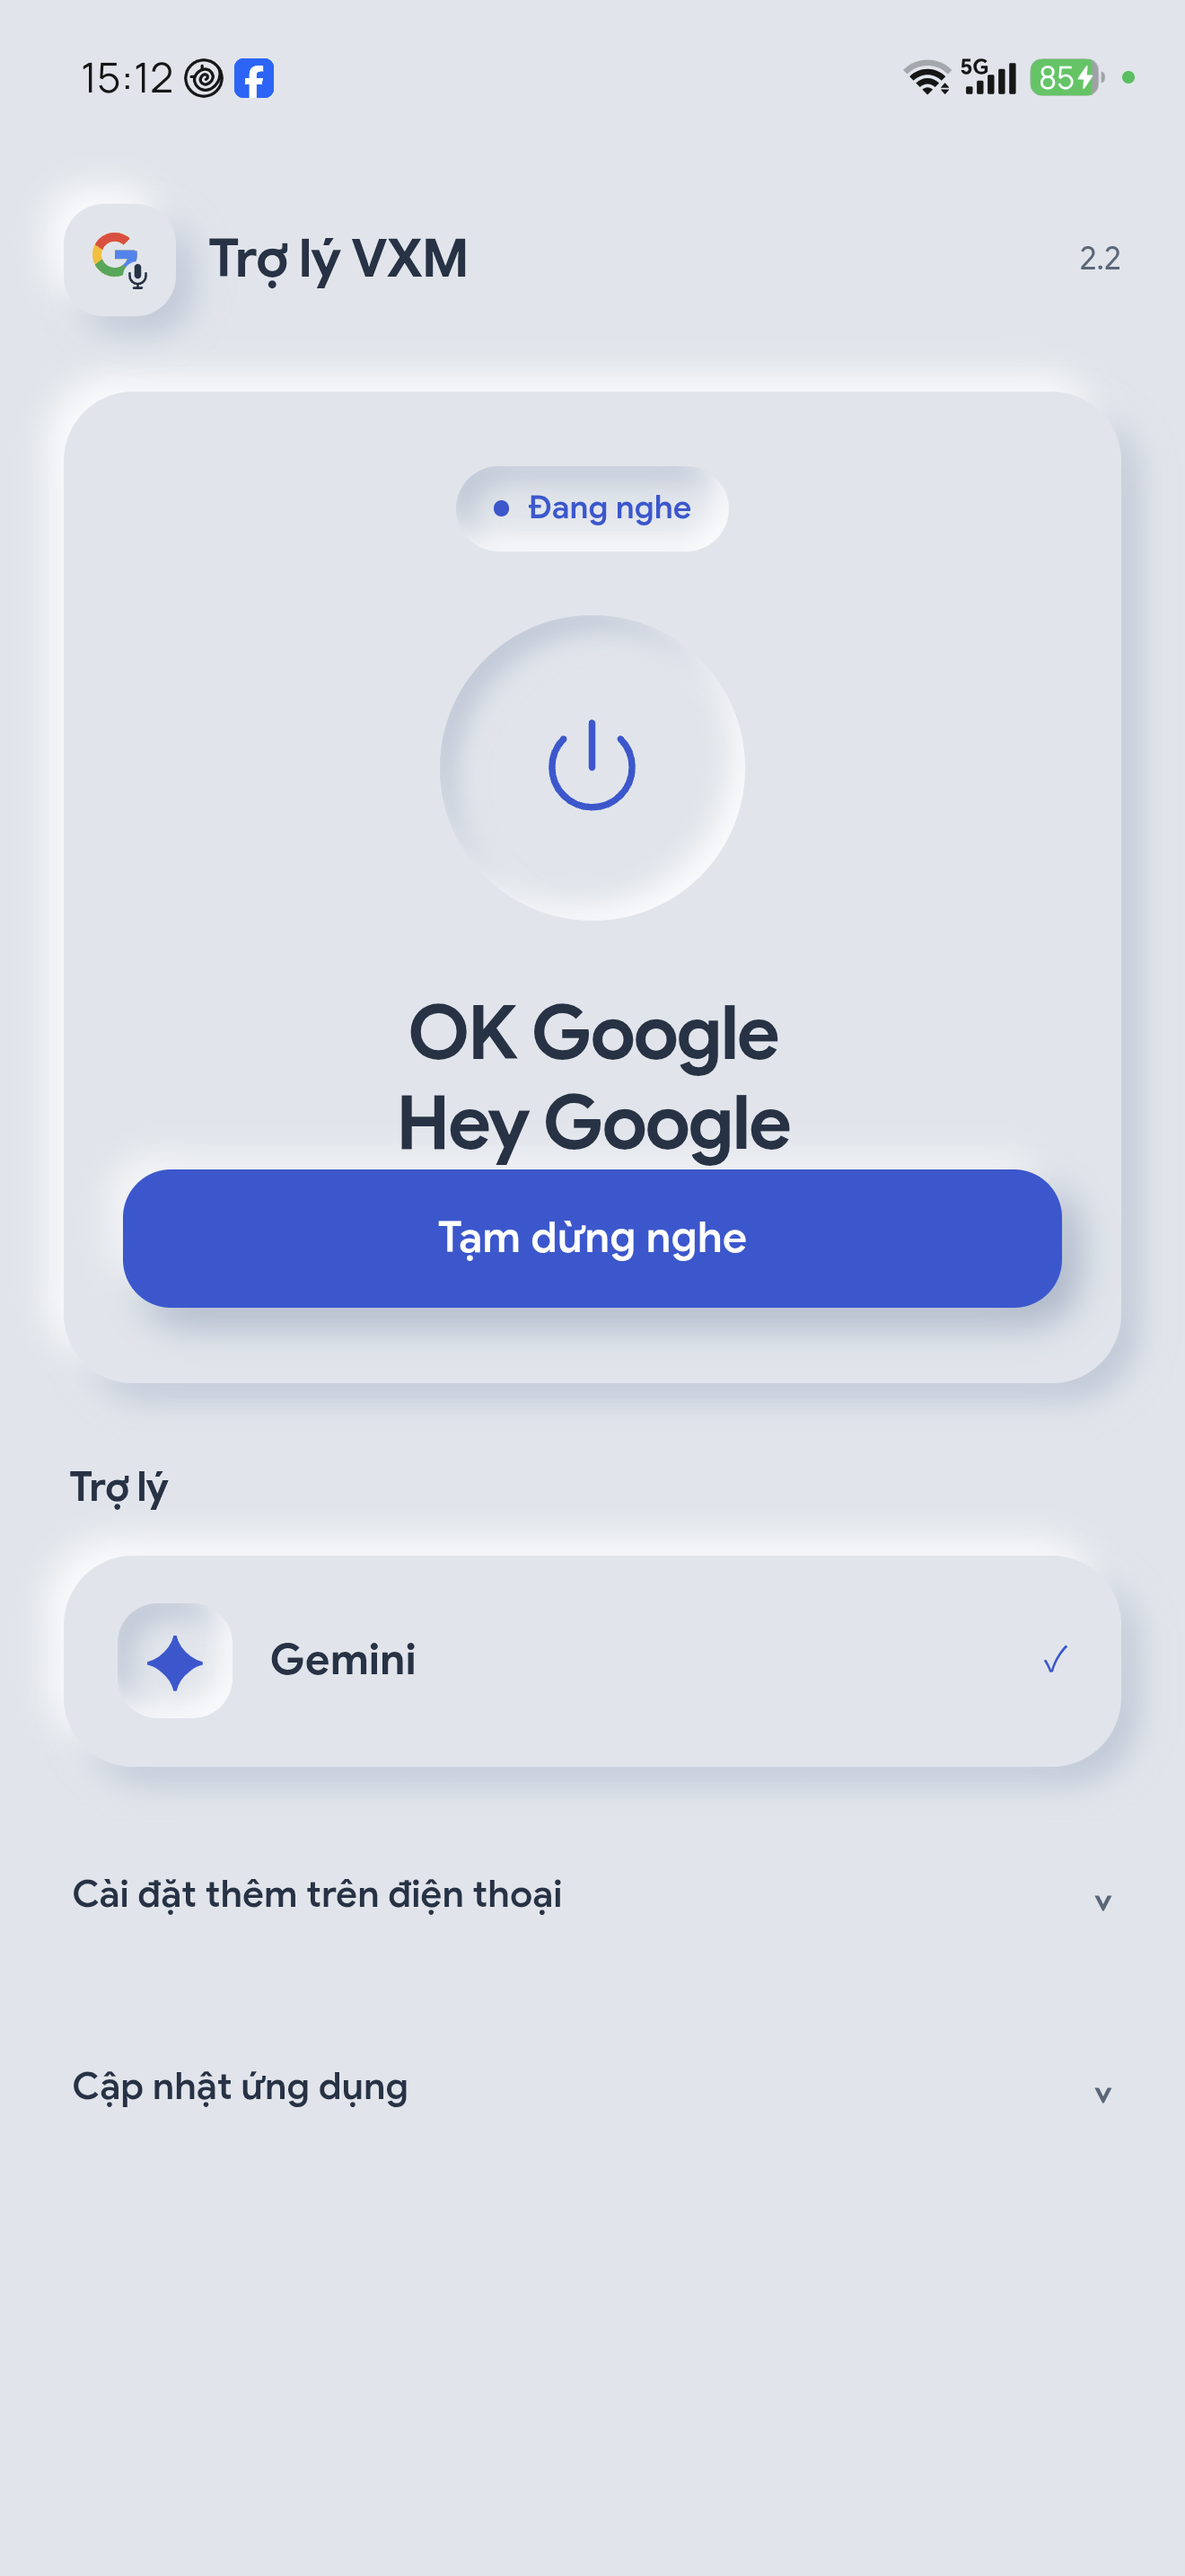
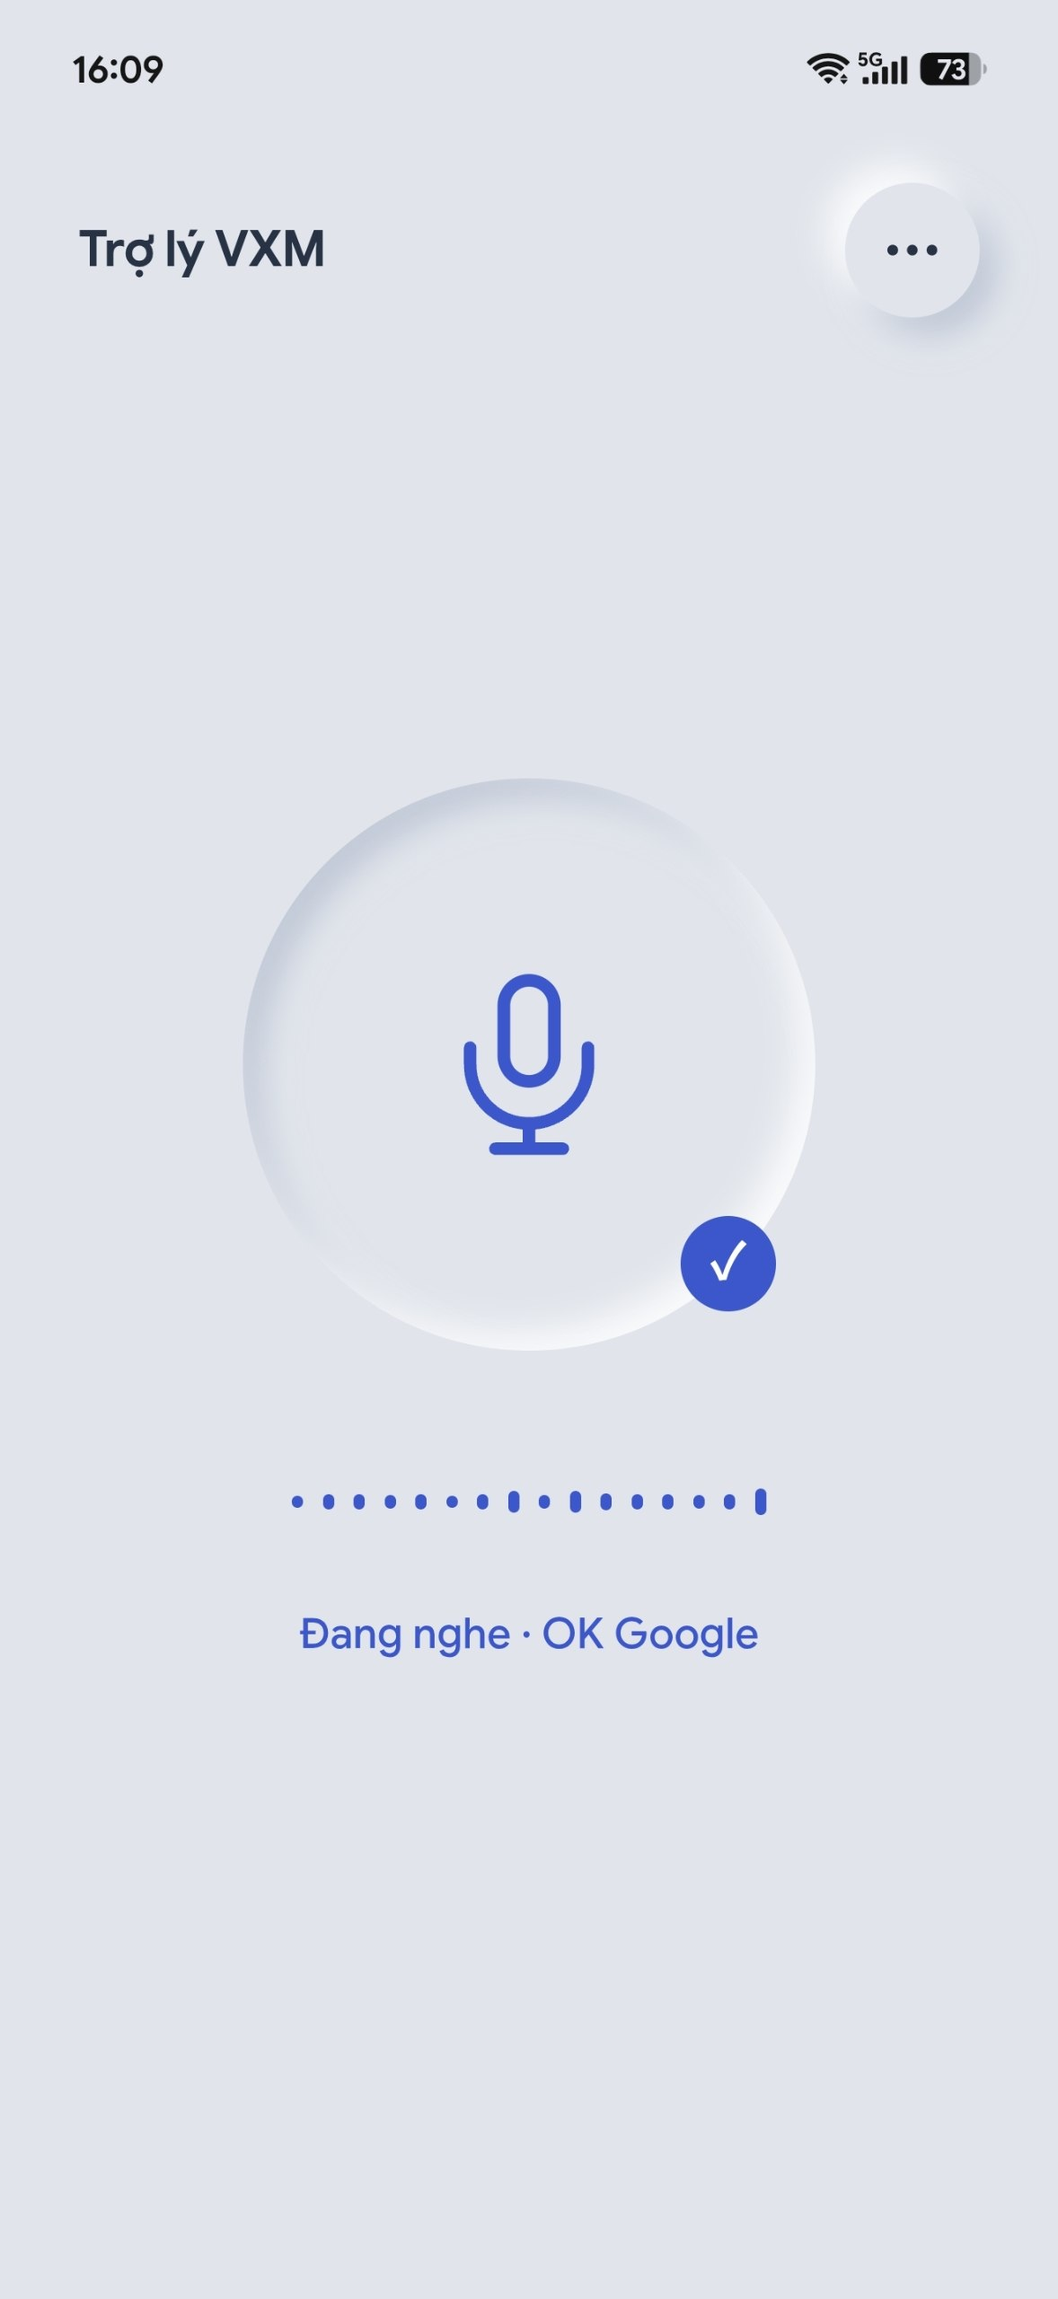
Prepare Trợ lý VXM 2.3.2 web section (new screenshot, version, OK Google only)
Download link is a placeholder until the assistant-v2.3.2 release exists.

Claude-Session: https://claude.ai/code/session_01ACLzPY6DSRmxzpCurnrEsE

diff --git a/index.html b/index.html
@@ -4,7 +4,7 @@
   <meta charset="utf-8">
   <meta name="viewport" content="width=device-width, initial-scale=1">
   <meta name="theme-color" content="#10121b">
-  <meta name="description" content="Ứng dụng của Việt Xiaomi: HONOR DEBLOAT để tinh gọn điện thoại, Trợ lý VXM để gọi Gemini bằng OK Google hoặc Hey Google. Tải APK universal và xem ảnh giao diện thật.">
+  <meta name="description" content="Ứng dụng của Việt Xiaomi: HONOR DEBLOAT để tinh gọn điện thoại, Trợ lý VXM để gọi Gemini bằng câu OK Google. Tải APK universal và xem ảnh giao diện thật.">
   <meta property="og:title" content="Honor Share App">
   <meta property="og:description" content="Tinh gọn HONOR với HONOR DEBLOAT. Gọi Gemini bằng giọng nói với Trợ lý VXM. APK universal và ảnh chụp giao diện thật.">
   <meta property="og:type" content="website">
@@ -30,12 +30,12 @@
     <section id="assistant" class="section wrap product-section" aria-labelledby="assistantTitle">
       <div class="product-panel glass">
         <div class="product-copy">
-          <div class="product-identity"><span class="product-icon"><img src="assets/assistant/icon.svg" alt="" width="56" height="56"></span><span class="release-chip glass capsule"><span class="status-dot"></span> Bản 2.2.10</span></div>
+          <div class="product-identity"><span class="product-icon"><img src="assets/assistant/icon.svg" alt="" width="56" height="56"></span><span class="release-chip glass capsule"><span class="status-dot"></span> Bản 2.3.2</span></div>
           <h2 id="assistantTitle">Trợ lý <span class="gradient-text">VXM</span></h2>
           <ul class="product-benefits"><li><span data-icon="shield"></span>Không cần Root</li><li><span data-icon="phone"></span>Không cần ADB</li><li><span data-icon="sparkles"></span>Giao diện Soft UI</li></ul>
-          <div class="product-actions"><a class="button primary capsule" href="https://github.com/vietng228/honor/releases/download/assistant-v2.2.10/Tro-ly-VXM-2.2.10-build32-universal.apk"><span data-icon="download"></span>Tải Trợ lý VXM</a><a class="text-link" href="https://github.com/vietng228/honor/releases/tag/assistant-v2.2.10" target="_blank" rel="noopener noreferrer">Thông tin bản phát hành <span aria-hidden="true">↗</span></a></div>
+          <div class="product-actions"><a class="button primary capsule" href="__APK_URL__"><span data-icon="download"></span>Tải Trợ lý VXM</a><a class="text-link" href="https://github.com/vietng228/honor/releases/tag/assistant-v2.3.2" target="_blank" rel="noopener noreferrer">Thông tin bản phát hành <span aria-hidden="true">↗</span></a></div>
         </div>
-        <figure class="product-preview"><button class="screen-open phone product-phone" data-full="assets/assistant/assistant-home.png" data-title="Trợ lý VXM · Ảnh chụp trên HONOR WKL-AN20" aria-label="Xem ảnh chụp đầy đủ Trợ lý VXM"><img src="assets/assistant/assistant-home.webp" alt="Ảnh chụp thật Trợ lý VXM trên HONOR WKL-AN20, trạng thái Đang nghe và hai câu gọi OK Google, Hey Google" width="720" height="1564"></button></figure>
+        <figure class="product-preview"><button class="screen-open phone product-phone" data-full="assets/assistant/assistant-home.png?v=2.3.2" data-title="Trợ lý VXM 2.3.2 · Ảnh chụp thật" aria-label="Xem ảnh chụp đầy đủ Trợ lý VXM"><img src="assets/assistant/assistant-home.webp?v=2.3.2" alt="Ảnh chụp thật Trợ lý VXM 2.3.2, trạng thái Đang nghe · OK Google" width="720" height="1565"></button></figure>
       </div>
     </section>
     <section id="home" class="section wrap product-section" aria-labelledby="debloatTitle">
